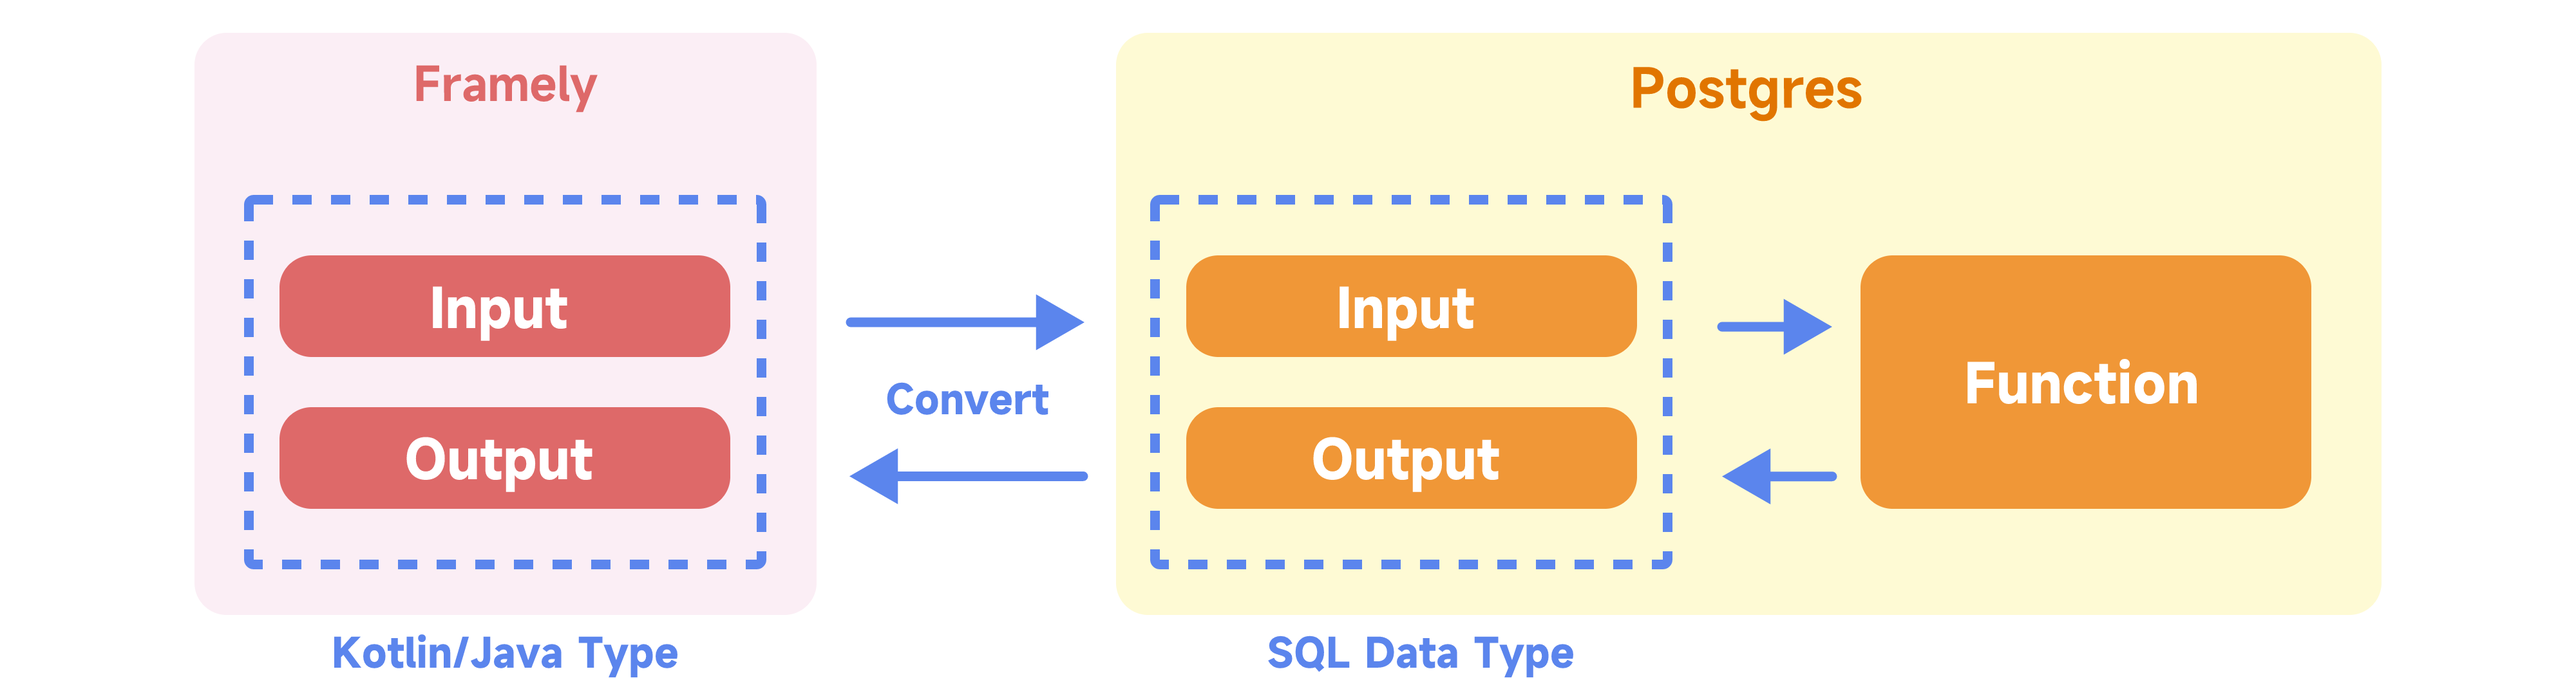
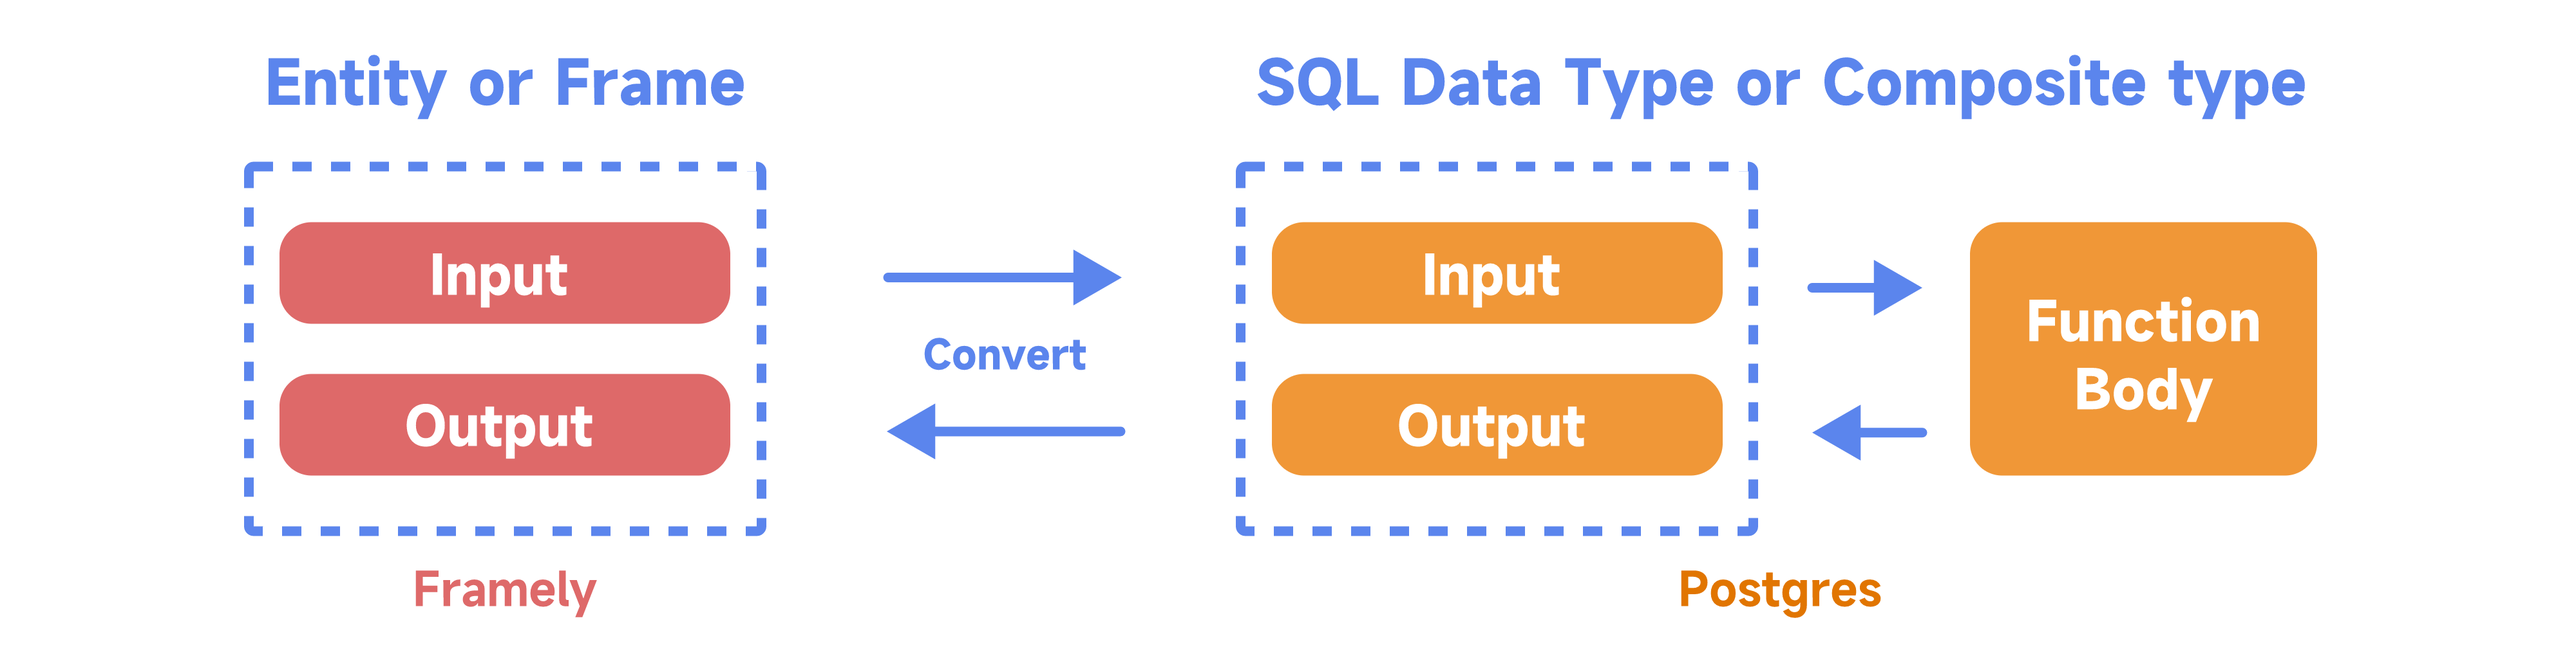
update postgrest.md

diff --git a/docs/reference/providers/postgrest.md b/docs/reference/providers/postgrest.md
@@ -104,23 +104,53 @@ For example, if a column is used to store a city, its dropdown List is like:
 [ { id: 'NY', name: 'NewYork' },
   { id: 'LA', name: 'Los Angeles' },]
 ```
+## Connection
+Once you deploy a chatbot which integrates with a postgrest provider, in the **Connection** field, you can get the **URL** of backoffice along with **Admin Email** and **Admin Password** to log in.
+
+![connection](/images/provider/postgrest/connection.png)
+
+::: tip Note
+Learn how to integrate with a postgrest provider, check out [Step 3: Import Component](../../articles/quick-start-with-service.md#step-3-import-component).
+:::
+
+## Function Implementation
+
+As mentioned in [Implement Functions](./overview.md#implement-functions), there are two kinds of ways to implement a function:
+- In **Provider Dependent** functions, use [PL/pgSQL language](https://www.postgresql.org/docs/current/plpgsql.html) to implement.
+  - :exclamation: Provider-dependent functions should always return a frame in which the slot's type is compatible with the return column's type in the same index.
+     
+     For example, if the slots in a frame are [_id_, _name_] of which types are [_kotlin.Int_, _kotlin.String_], the types of return columns should be [_bigint_, _text_] instead of [_text_, _bigint_].
+
+  - The name of a slot and of a column in the same index can be different.
+     
+    In the above example, the return columns can be [_userId_, _userName_].
+- In **Kotlin** functions, write function bodies in [Kotlin](https://kotlinlang.org/docs/functions.html). 
+  - Kotlin functions can be used to convert the value returning from a provider-dependent function to a desirable format.
+    
+     For example, if a provider-dependent function returns a multi-value frame with only one slot, you could use a Kotlin function to convert the multi-value frame into a multi-value slot so that you can use the return value directly in [Value Recommendation](../annotations/valuerec.md).
+  - Learn how to implement more Kotlin functions, check out [Kotlin Function](../annotations/kotlinexpression.md).
+
+``` kotlin
+/* 
+  Suppose a provider-dependent is getFoodCategory() which returns a list of frame. 
+  There is one slot called returnValue in the frame. 
+*/
+return getFoodCategory()!!.map{it -> it.returnValue!!} 
+```
 
 
-## Function 
-### Definition
-When you create a function, you need to define the input parameters and return types of the function. For the imported function, you make the definition when you create the Postgres function in the component. For the local function, you make the definition in the Postgrest provider.
 
-#### How Types Convert Between Kotlin/Java and SQL
-- When you call the Postgres function, you pass the values of Kotlin/Java type and we will convert their types to SQL data types automatically, so you can use these parameters in your function body.
-- When the function returns values of SQL data type, we convert their types back to Kotlin/Java type for you, so you can display or use these values in the Framely environment.
+### Types Conversion
+- When you call the **Provider Dependent function**, you pass the **entities** (or **frames**) and we will convert their types to **SQL data types** (or [**composite types**](https://www.postgresql.org/docs/current/rowtypes.html)) automatically, so you can use these parameters in your function body.
+- When the function returns a set of values of **composite type**, we convert the composite type back to a **frame**, so you can display or use these values in the Framely environment.
 
 ::: thumbnail
 ![conversion](/images/provider/postgrest/conversion.png)
-Conversion Between Kotlin/Java and SQL
+Type Conversion Between Framely and Postgrest
 :::
-Here are the mappings between Kotlin/Java types and SQL Data Types
+- Here is the conversion between entities and SQL data types:
 
-| Kotlin/Java Type                                           | SQL Data Type               |   
+| Entity                                                     | SQL Data Type               |   
 |:-----------------------------------------------------------|:----------------------------|
 | kotlin.Int / java.time.Year                                | bigint                      |
 | kotlin.Float                                               | double precision            |
@@ -131,41 +161,8 @@ Here are the mappings between Kotlin/Java types and SQL Data Types
 | java.time.LocalTime                                        | time without time zone      |
 | java.time.LocalDateTime                                    | timestamp without time zone | 
 
-#### How To Define the Input Parameters and Return Types
 
-![input-return](/images/provider/postgrest/input-return.png)
-
-For now, we support inputting multiple entities and returning only one frame. For input parameters, you can add each parameter with corresponding types. For return types, here are two situations:
-
-- If the function returns values from **multiple columns**, you need to create a frame and add those columns as slots into the frame. Make sure the types of slots are consistent with the types in the table definition.
-  
-  For example, if you have a table called Info which includes columns: name, userId and gender. The types of name and userId are `kotlin.String` and `kotlin.Int`. If you want to get user information from columns: name and userId, you can create a frame—userInfo—with two slots: name and userId. The types of name and userId are  `kotlin.String` and `kotlin.Int` as well.
-
-::: thumbnail
-![return-type](/images/provider/postgrest/return-type.png)
-:::
-
-- If the function returns values from **only one column**, you could use a row container to wrap it.
-    
-  For example, if the return type is `String`, you could create a frame: *RCString* and add a slot called *returnValue* whose type is `String`. To use the return values in [Value Recommendation](../annotations/valuerec.md), the code expression in the source is like this:
-
-``` kotlin
-// Suppose your function is named getFoodCategory
-componentName.getFoodCategory()?.map{it -> it.returnValue!!}
-```
-
-
-### Implementation
-
-As mentioned in [Implement Functions](./overview.md#implement-functions), there are two kinds of ways to implement a function:
-- If the implementation is **Kotlin**, you should write a function body in [Kotlin](https://kotlinlang.org/docs/functions.html).
-- If the implementation is **Provider Dependent**, you use [PL/pgSQL language](https://www.postgresql.org/docs/current/plpgsql.html) to implement the function.
-
-::: tip Note
-To learn how to implement Kotlin functions, check out [Kotlin Function](../annotations/kotlinexpression.md).
-:::
-
-#### How To Implement Provider Dependent Functions
+### Provider Dependent Functions
 If you are familiar with [SQL](https://www.postgresql.org/docs/14/sql.html), writing SQL commands within a PL/pgSQL function will be easy. For example, if you've stored your customers' information in your database and you want to get a customer's name by their user ID, which is an input parameter named *userId_parameter*,  the code will be like this:
 ``` sql
 BEGIN
@@ -174,5 +171,3 @@ BEGIN
 END
 ```
 Besides, [PL/pgSQL language](https://www.postgresql.org/docs/current/plpgsql.html) also supports [simple loops](https://www.postgresql.org/docs/current/plpgsql-control-structures.html#PLPGSQL-CONTROL-STRUCTURES-LOOPS) and [Conditionals](https://www.postgresql.org/docs/current/plpgsql-control-structures.html#PLPGSQL-CONDITIONALS).
-
-## Connection

diff --git a/docs/reference/providers/overview.md b/docs/reference/providers/overview.md
@@ -22,4 +22,4 @@ How Provider Works
     - **Local functions** are added within the current provider and you can change the declarations.
 - There are two kinds of ways to implement a function
     - **Provider Dependent** means the language of function implementation is dependent on the type of the provider. For example, in Postgrest Provider, the language is PL/pgSQL.
-    - **Kotlin** means the function is implemented in kotlin. You can call both Kotlin functions and provider dependent functions in a Kotlin function.
+    - **Kotlin** means the function is implemented in kotlin. You can call both Kotlin functions and provider dependent functions in a Kotlin function. 
